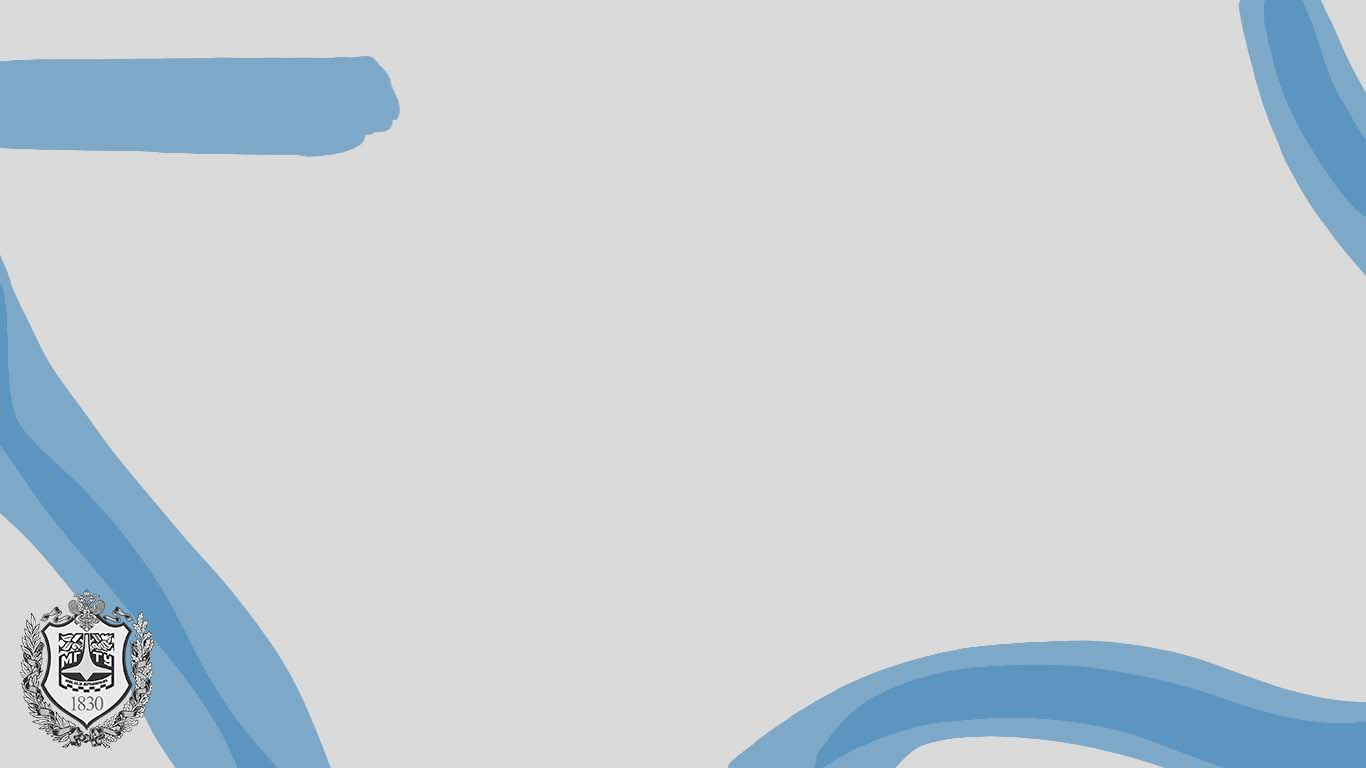
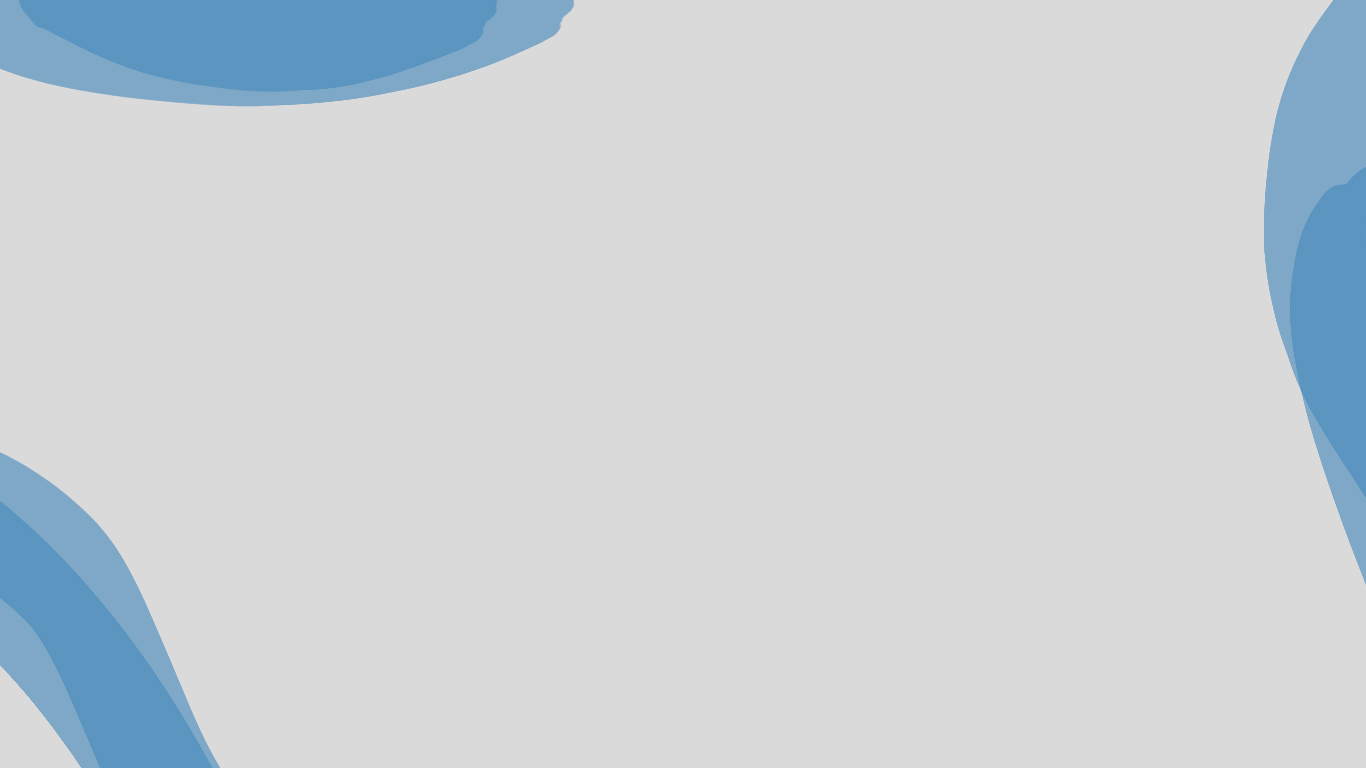
Страница "О нас"
Добавлена страница о нас

diff --git a/Bmap/main/templates/main/about.html b/Bmap/main/templates/main/about.html
@@ -1,0 +1,31 @@
+<!DOCTYPE html>
+{% load static %}
+
+<html lang="RU" xmlns:margin-left="http://www.w3.org/1999/xhtml">
+
+<head>
+    <title>BMSTU WebMap</title>
+    <link rel="stylesheet" href="{% static 'css/about.css'%}">
+</head>
+
+<body style="background-image: url('{% static 'images/about_page.jpg' %}')">
+
+    <div class="container">
+
+        <div class="header">
+            <h1 id="About">О нас</h1>
+        </div>
+
+        <div class="main">
+            <p id="info">
+
+            </p>
+        </div>
+
+
+
+
+    </div>
+
+</body>
+</html>

diff --git a/Bmap/main/static/css/about.css b/Bmap/main/static/css/about.css
@@ -1,0 +1,28 @@
+@import "https://fonts.fontstorage.com/import/arimo.css";
+@import "https://fonts.fontstorage.com/import/montserrat.css";
+
+body {
+    background-repeat: no-repeat;
+    background-size: cover;
+    link: #3B332E;
+}
+
+@media screen and (max-width: 2500px){
+    .container {
+        width: 1400px;
+        height: 600px;
+    }
+
+    .header {
+        width: 1400px;
+        height: 100px;
+    }
+}
+
+#About {
+    color: #3B332E;
+    font-size: 100px;
+    font-family: 'Arimo';
+    margin-top: 3%;
+    margin-left: 8%;
+}

diff --git a/Bmap/main/templates/main/home.html b/Bmap/main/templates/main/home.html
@@ -36,7 +36,7 @@
             <div class="urls">
                 <a id="Map" href="maps/">КАРТА</a>
                 <a id="Login" href="profile/">ЛИЧНЫЙ КАБИНЕТ</a>
-                <a id="About" href="maps/">О НАС</a>
+                <a id="About" href="about/">О НАС</a>
             </div>
 
             <div class="gerb">

diff --git a/Bmap/main/urls.py b/Bmap/main/urls.py
@@ -1,9 +1,9 @@
 from django.urls import path
 from django.contrib.auth import views as auth_views
 from .views import (
-    home_view, profile_view, mainBuild_map_view, branches_map_view, 
-    industry_faculties_map_view, sport_map_view, dorms_map_view, 
-    other_map_view, RegisterView
+    home_view, profile_view, mainBuild_map_view, branches_map_view,
+    industry_faculties_map_view, sport_map_view, dorms_map_view,
+    other_map_view, RegisterView, about_view
 )
 
 urlpatterns = [
@@ -18,4 +18,5 @@ urlpatterns = [
     path('maps/other', other_map_view, name='other_map'),
     path('login/', auth_views.LoginView.as_view(template_name='registration/login.html'), name='login'),
     path('register/', RegisterView.as_view(), name='register'),
+    path('about/', about_view, name='about'),
 ]

diff --git a/Bmap/main/views.py b/Bmap/main/views.py
@@ -12,6 +12,9 @@ def profile_view(request):
 @login_required
 def home_view(request):
     return render(request, 'main/home.html')
+
+def about_view(request):
+    return render(request, 'main/about.html')
 def mainBuild_map_view(request):
     return render(request, 'maps/main_buildings_map.html')
 def branches_map_view(request):
@@ -35,3 +38,4 @@ class RegisterView(FormView):
     def form_valid(self, form):
         form.save()
         return super().form_valid(form)
+
